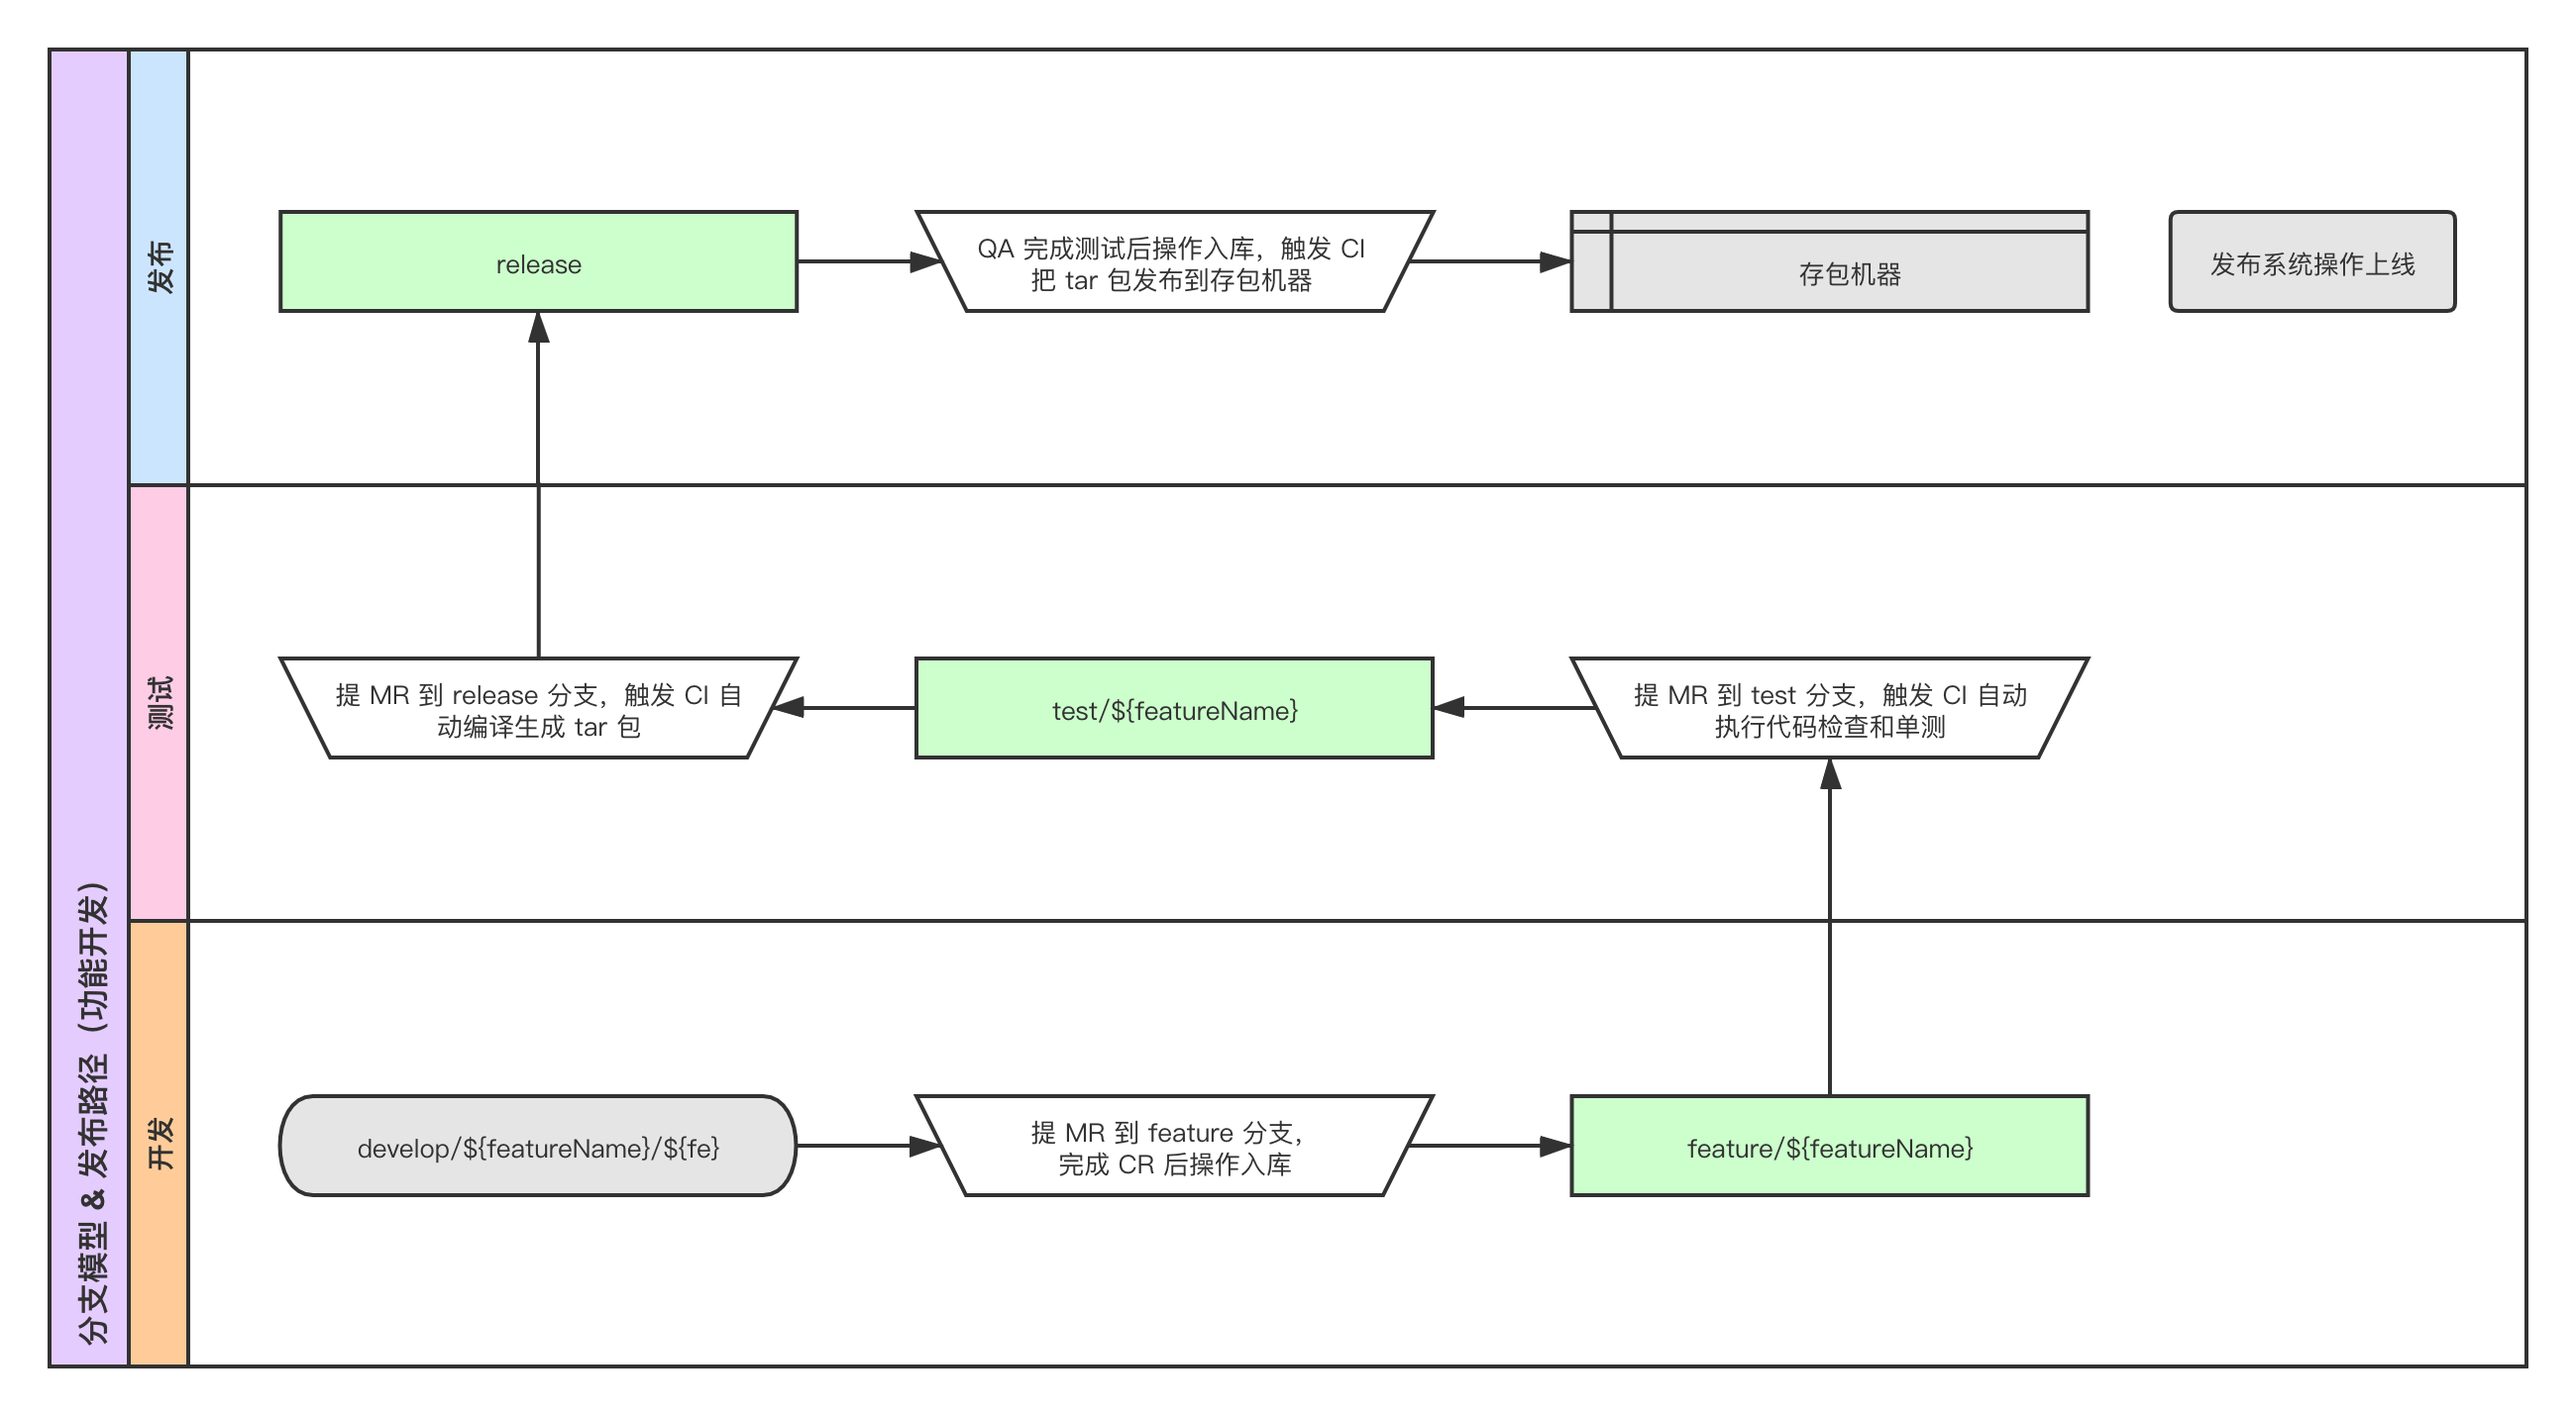
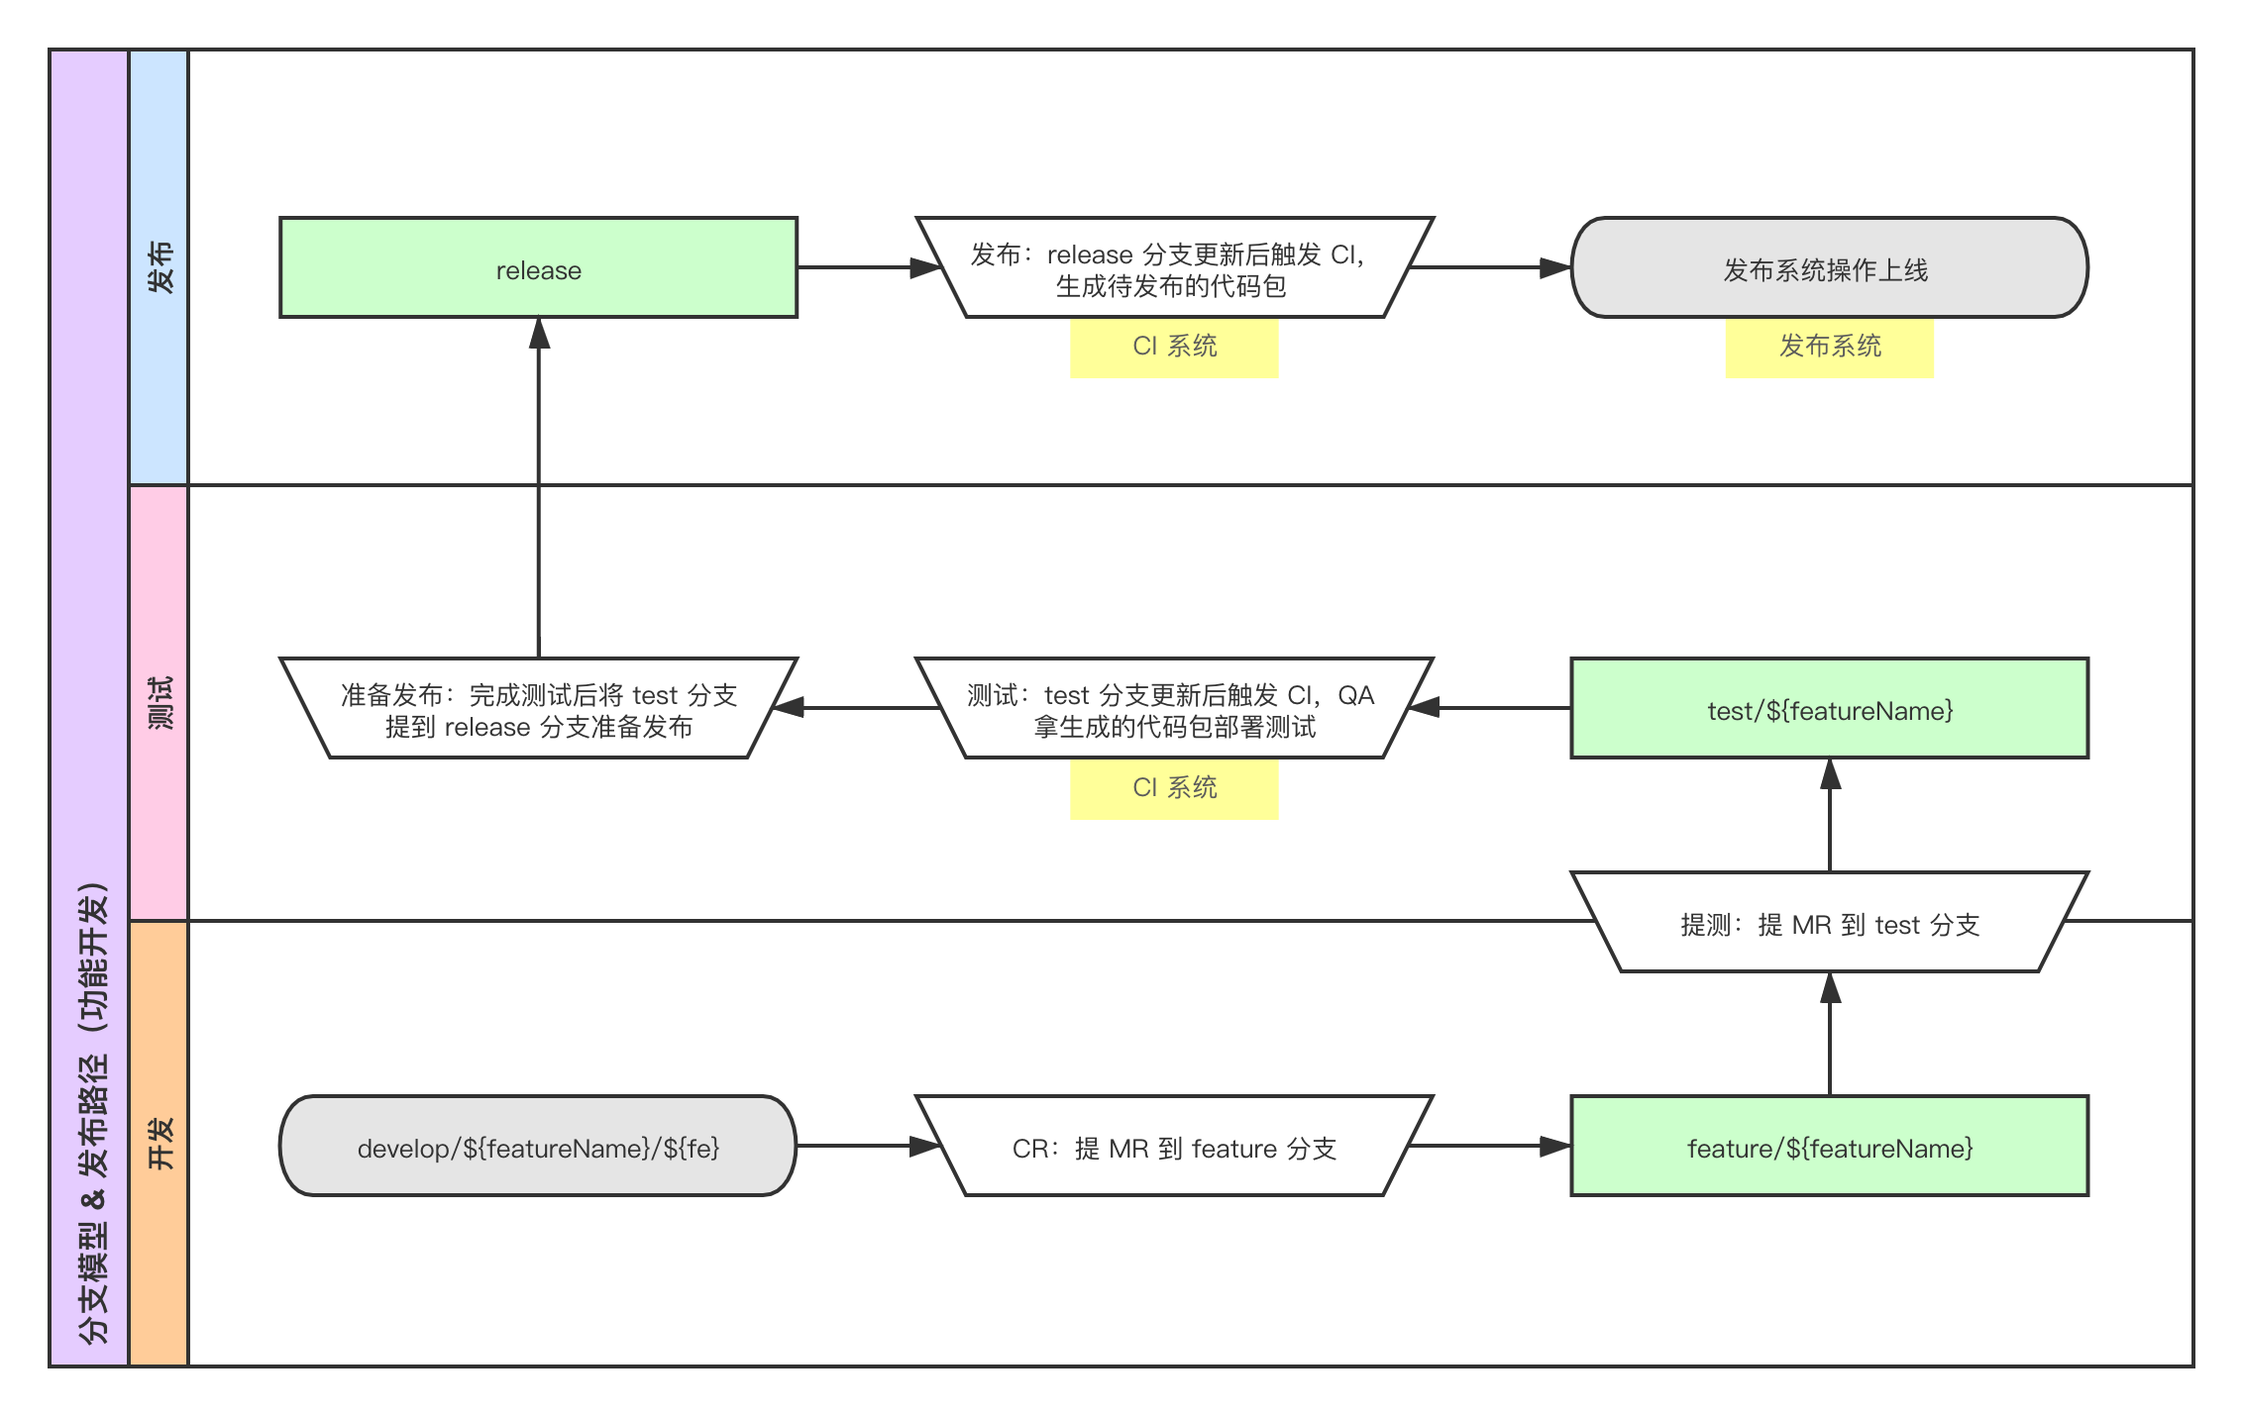
update

Changed region(s): [[0.0, 0.0308, 0.9894, 0.9846], [0.7111, 0.6154, 0.9276, 0.7077], [0.6802, 0.6154, 0.7111, 0.6462]]

diff --git a/branching-model.md b/branching-model.md
@@ -24,27 +24,32 @@
 
 | 分支 | 描述 |
 | :-- | :-- |
-| `feature/${featureName}` | 针对 `具体 feature` 的分支，用于整合参与 feature 开发的各个工程师的代码，`featureName` 可以描述独立发布的大功能，也可以是某个具体的发布日期。 |
-| `develop/${featureName}/${fe}` | 针对 `具体 feature` 的 `开发者` 分支，建议将每天新增的分支内容提 Merge Request 到 `feature/${featureName}` 分支，高频提交可以减少解决冲突和 CR 的工作量。 |
-| `test/${featureName}` | feature 对应的测试分支，也可以同时整合多个 `feature/${featureName}` 分支进行测试，视具体测试计划而定。 |
+| `feature/${featureName}` | 功能分支，用于整合参与功能开发的各个工程师的代码，`featureName` 可以描述独立发布的大功能，也可以是某个具体的发布日期。 |
+| `develop/${featureName}/${fe}` | 基于 `feature/${featureName}` 的 `开发者` 分支，建议将每天新增的分支内容提 Merge Request 到 `feature/${featureName}` 分支，高频提交可以减少解决冲突和 CR 的工作量。 |
+| `test/${featureName}` | 功能对应的测试分支，也可以同时整合多个 `feature/${featureName}` 分支进行测试，视具体测试计划而定。 |
 | `develop/hotfix` | 专门用于 bug 修复的开发分支。 |
 | `test/hotfix` | 专门用于 bug 修复的测试分支。 |
 | `release` | 发布分支，始终体现为已完成测试的最新发布代码。 |
 | `master` | 稳定分支，`release` 分支发布后线上回归没问题，将 release 分支合入 master 分支。 |
 
-### GitLab CI
+### 测试发布
 
-上面提到的 `测试分支`、`发布分支`，并非由 QA 直接拿某个分支去测试或者发布，而是通过 GitLab CI 基于某个分支来自动编译生成要测试、发布的资源。
+上面提到的 `测试分支`、`发布分支`，并非直接拿某个分支去测试或者发布，而是通过 CI 基于某个分支来自动编译生成要测试、发布的资源。
 
 | 触发 CI 的动作 | 描述 |
 | :-- | :-- |
-| 从 `feature/${featureName}` 提 Merge Request 到 `test/${featureName}`，从 `develop/hotfix` 提 Merge Request 到 `test/hotfix` | 执行代码检查、单元测试，通过后才能操作入库。 |
-| 从 `test/${featureName}` 提 Merge Request 到 `release`，从 `test/hotfix` 提 Merge Request 到 `release` | 执行代码编译，生成 tar 包，QA 拿 tar 包去部署测试。 |
-| 目标分支为 `release` 的 Merge Request 操作入库 | 把完成测试的 tar 包发布到存包机器。 |
+| `test/${featureName}`、`test/hotfix` 分支更新 | 生成测试包：代码检查、单元测试、编译打包，始终只拿最新版的包去测试。 |
+| `release` 分支更新 | 生成发布包：代码检查、单元测试、编译打包，始终只拿最新版本的包去发布。 |
 
-### 发布上线
+**对系统的要求**
 
-开发、测试流程的最终产出是一个可靠的 tar 包，发布系统只用关注怎么获取指定系统的 tar 包，并不需要关注背后的开发测试流程和分支模型，同时发布系统也需要具备针对发布物的版本管理、自动回滚的功能。
+* CI 系统产出的包有分支和版本标识。
+* 发布系统有自动回滚功能。
+
+### 改进空间
+
+* 发布和测试的包最好是同一个，拿完成测试的包去发布，test 分支和 release 分支虽然代码一致，但也可能因外部依赖的差异导致产出不一样。
+* 整体流程的管控，如：CI 失败或测试不通过可以阻断 test 分支向 release 分支的入库流程。
 
 ### 其他
 
